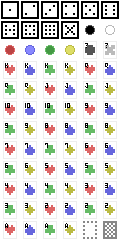
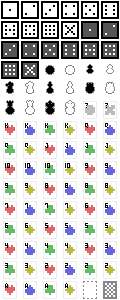
Add chess board.

diff --git a/square/square-script.js b/square/square-script.js
@@ -174,6 +174,7 @@ function squareCounts(x) {
 
 	// Board(Chips) parameters.
 	var chipCountsMax = 0, chipFrameMax = 0, frameChipDepth = 0;
+	var placements = []; // Placement pieces.
 
 	// Player and random parameter.
 	var playerNumber = 1; // Player number.
@@ -212,7 +213,7 @@ function squareCounts(x) {
 			if (square.manifest.params.board.size) {
 				counts = square.manifest.params.board.size;
 			}
-			if (square.manifest.params.board.type) {
+			if (square.manifest.params.board.type >= 0) {
 				pattern = square.manifest.params.board.type;
 			}
 			if (square.manifest.params.board.count) {
@@ -224,11 +225,15 @@ function squareCounts(x) {
 			if (square.manifest.params.board.flip) {
 				frameChipDepth = square.manifest.params.board.flip;
 			}
-			console.log("Board parameters:" + chipCountsMax + "x" + chipFrameMax + "x" + frameChipDepth);
+			if (square.manifest.params.board.place) {
+				placements = square.manifest.params.board.place;
+			}
+			console.log("Board parameters:" + counts + "," + pattern + ":" + chipCountsMax + "x" + chipFrameMax + "x" + frameChipDepth);
 		}
 
 	// Set default parameters.
 	} else {
+		console.log("Set default parameters.");
 		diceCounts = 9;
 		rollCounts = 1;
 		diceFrameMax = 6;
@@ -336,6 +341,7 @@ function squareCounts(x) {
 
 	// Set goban grids.
 	if (pattern == 0 && cubeMod(counts, 2)) {
+		console.log("Set goban grids.");
 		counts -= 1;
 		pattern = 1;
 	}
@@ -350,7 +356,7 @@ function squareCounts(x) {
 
 	// Chip count max.
 	if (chipFrameMax > 0 && chipCountsMax < 0) {
-		console.log("Update chip count:" + chipFrameMax + " " + chipCountsMax + "->" + counts)
+		console.log("Update chip count:" + chipFrameMax + " " + chipCountsMax + "->" + counts);
 		chipCountsMax = counts * counts;
 	}
 
@@ -381,14 +387,13 @@ function squareCounts(x) {
 	// b2x13
 
 	// Initialize placement pieces.
-	var placements = []; // Placement pieces.
 	var piecesParams = cubeParamData("b");
-	var piecesType = cubeDiv(counts, 2) + 1 - 0.5 * (cubeMod(counts, 2) ? pattern : !pattern);
 	for (let i = 0; i < piecesParams.length / 3; i++) {
-		let x = piecesParams[i * 3 + 1] - piecesType;
-		let y = piecesParams[i * 3 + 2] - piecesType;
-		let z = piecesParams[i * 3] >= 10 ? piecesParams[i * 3] - 9 : piecesParams[i * 3];
-		placements.push(cubeVector(x, y, z));
+		let frame = piecesParams[i * 3] >= 10 ? piecesParams[i * 3] - 9 : piecesParams[i * 3];
+		let x = piecesParams[i * 3 + 1];
+		let y = piecesParams[i * 3 + 2];
+		placements.push([frame, x, y]);
+		//console.log("Placements " + i + ":" + frame + "," + x + "," + y);
 	}
 
 	var original = 0; // Original design icon frame.
@@ -511,7 +516,7 @@ function squareCounts(x) {
 		let boardGridCounts = counts, boardGridPattern = pattern; // Grid pattern. (0:Chess, 1:Goban)
 		let boardGridType = cubeMod(boardGridCounts, 2) ? boardGridPattern : !boardGridPattern; // 0:-1,0,1 1:-0.5,0.5
 		let boardCanvas = cubeCanvas(boardSize + boardGridPattern * 2, boardSize + boardGridPattern * 2, 1);
-		let boardGridColor = [cubeVector(238,238,238), cubeVector(187,187,187), cubeVector(136,136,136)];
+		let boardGridColor = [cubeVector(238,238,238), cubeVector(187,187,187), cubeVector(85,85,85)];
 		// #fff=rgb(255,255,255) #eee=rgb(238,238,238) #ccc=rgb(204,204,204) #bbb=(187,187,187) #aaa=rgb(170,170,170)
 		// #888=rgb(136,136,136) #555=rgb(85,85,85) #333=rgb(51,51,51) #111=rgb(17,17,17) #000=rgb(0,0,0)
 		boardGridSize = cubeVector(boardSize / boardGridCounts, boardSize / boardGridCounts);
@@ -587,13 +592,15 @@ function squareCounts(x) {
 				//console.log("j=" + j);
 			}
 			if (placements.length > 0) {
+				var piecesType = cubeDiv(counts, 2) + 1 - 0.5 * (cubeMod(counts, 2) ? pattern : !pattern);
 				for (let j = 0; j < placements.length; j++) {
 						let chip = banks.pop();
-						chip.x = placements[j].x;
-						chip.y = placements[j].y;
+						chip.frame = frameChipStart + (placements[j][0] - 1);
+						chip.x = placements[j][1] - piecesType;
+						chip.y = placements[j][2] - piecesType;
 						chip.z = 0;
-						chip.frame = frameChipStart + (placements[j].z - 1);
 						playChips.push(chip);
+						//console.log("Placements " + j + ":" + placements[j][0] + "," + placements[j][1] + "," + placements[j][2] + " -> " + chip.frame + "," + chip.x + "," + chip.y);
 				}
 			}
 

diff --git a/apps.html b/apps.html
@@ -158,17 +158,20 @@ input {
 				</a>
 			</div>
 			<div class="disc en">
-				<a href="goban/?b1x2x8&b=a54b44a45b55">b1x2x8</a> (Reversi) / <a href="goban/?24b2x2x8&p=1/2&b=a18a38a58a78a27a47a67a87a16a36a56a76b23b43b63b83b12b32b52b72b21b41b61b81">24b2x2x8</a> (Checker) places or flips black and white pieces on the board.
+				<a href="goban/?b1x2x8&b=a54b44a45b55">b1x2x8</a> (Reversi) / <a href="goban/?24b2x8&p=1/2&b=a18a38a58a78a27a47a67a87a16a36a56a76b23b43b63b83b12b32b52b72b21b41b61b81">b2x8</a> (Checker) places or flips black and white pieces on the board.
+				<a href="goban/?32b12x8&p=1/2&b=i11e21g31m41k51g61e71i81c12c22c32c42c52c62c72c82d17d27d37d47d57d67d77d87j18f28h38n48l58h68f78j88">b12x8</a> (Chess) is the chess board.
 				<a href="goban/?b2x7">b2x7</a> (7x7) / <a href="goban/?b2x9">b2x9</a> (9x9) / <a href="goban/?b2x13">b2x13</a> (13x13) is the board for the Igo.
 				<span class="note">"Add to Homescreen" to use like as native app.</span>
 			</div>
 			<div class="disc ja">
-			<a href="goban/?b1x2x8&b=a54b44a45b55">b1x2x8</a>(リバーシ)・<a href="goban/?24b2x2x8&p=1/2&b=a18a38a58a78a27a47a67a87a16a36a56a76b23b43b63b83b12b32b52b72b21b41b61b81">24b2x2x8</a>(チェッカー) はボードに黒と白のコマをおいたりひっくりかえしたりします。<!--
+			<a href="goban/?b1x2x8&b=a54b44a45b55">b1x2x8</a>(リバーシ)・<a href="goban/?24b2x8&p=1/2&b=a18a38a58a78a27a47a67a87a16a36a56a76b23b43b63b83b12b32b52b72b21b41b61b81">b2x8</a>(チェッカー) はボードに黒と白のコマをおいたりひっくりかえしたりします。<!--
+			--><a href="goban/?32b12x8&p=1/2&b=i11e21g31m41k51g61e71i81c12c22c32c42c52c62c72c82d17d27d37d47d57d67d77d87j18f28h38n48l58h68f78j88">b12x8</a>  はチェス盤です。<!--
 			--><a href="goban/?b2x7">b2x7</a>(七路盤)・<a href="goban/?b2x9">b2x9</a>(九路盤)・<a href="goban/?b2x13">b2x13</a>(十三路盤) は囲碁盤です。<!--
 			--><span class="note">"ホーム画面に追加"をするとアプリのようにつかえます。</span>
 			</div>
 		</div>
 		<div>
+			32b12x8&p=1/2&b=i11e21g31m41k51g61e71i81c12c22c32c42c52c62c72c82d17d27d37d47d57d67d77d87j18f28h38n48l58h68f78j88
 			------
 		</div>
 		<div class="app">

diff --git a/goban/manifest.js b/goban/manifest.js
@@ -6,14 +6,32 @@ const manifest = {
     "resource": "resource.png",
     "params": {
         "dice": {
-            "face": 10
+            "face": 20
         },
         "board": {
             "size": 8,
             "type": 1,
-            "count": 81,
-            "face": 2
+            "face": 12,
+            "count": 64
         }
+        /*,
+        "board": {
+            "size": 8,
+            "type": 0,
+            "face": 12,
+            "count": 32,
+            "place": [
+                [9,1,1],[5,2,1],[7,3,1],[13,4,1],[11,5,1],[7,6,1],[5,7,1],[9,8,1],
+                [3,1,2],[3,2,2],[3,3,2],[3,4,2],[3,5,2],[3,6,2],[3,7,2],[3,8,2],
+                [4,1,7],[4,2,7],[4,3,7],[4,4,7],[4,5,7],[4,6,7],[4,7,7],[4,8,7],
+                [10,1,8],[6,2,8],[8,3,8],[14,4,8],[12,5,8],[8,6,8],[6,7,8],[10,8,8]]
+        },
+        "players": [1, 2]//*/
     },
     "service": "../square/square-service.js"
 };
+
+// reversi: b1x2x8&b=a54b44a45b55
+// checker: 24b2x2x8&p=1/2&b=a18a38a58a78a27a47a67a87a16a36a56a76b23b43b63b83b12b32b52b72b21b41b61b81
+// chess: 32b12x8&p=1/2&b=i11e21g31m41k51g61e71i81c12c22c32c42c52c62c72c82d17d27d37d47d57d67d77d87j18f28h38n48l58h68f78j88
+

diff --git a/manifest.js b/manifest.js
@@ -1,22 +1,25 @@
-/* Manifest. */
+// App settings.
 const manifest = {
     "name": "Saikoro.org",
     "short_name": "Saikoro",
     "scope": "/",
     "params": {
         "dice": {
-            "count": [1, 9],
-            "face": [6, 9]
+            "count": 9,
+            "roll": 1,
+            "face": 6
         },
         "cards": {
-            "count": [0, 0],
+            "count": 0,
+            "draw": 0,
             "faces": [54]
         },
         "board": {
             "size": 6,
             "type": 1,
             "count": 0,
-            "face": [1, 4]
+            "face": 1,
+            "flip": 4
         },
         "players": [1, 1],
         "seed": 0

diff --git a/sai/manifest.js b/sai/manifest.js
@@ -8,7 +8,7 @@ const manifest = {
         "dice": {
             "count": 9,
             "roll": 1,
-            "face": 6
+            "face": 20
         }
     },
     "service": "../square/square-service.js"
